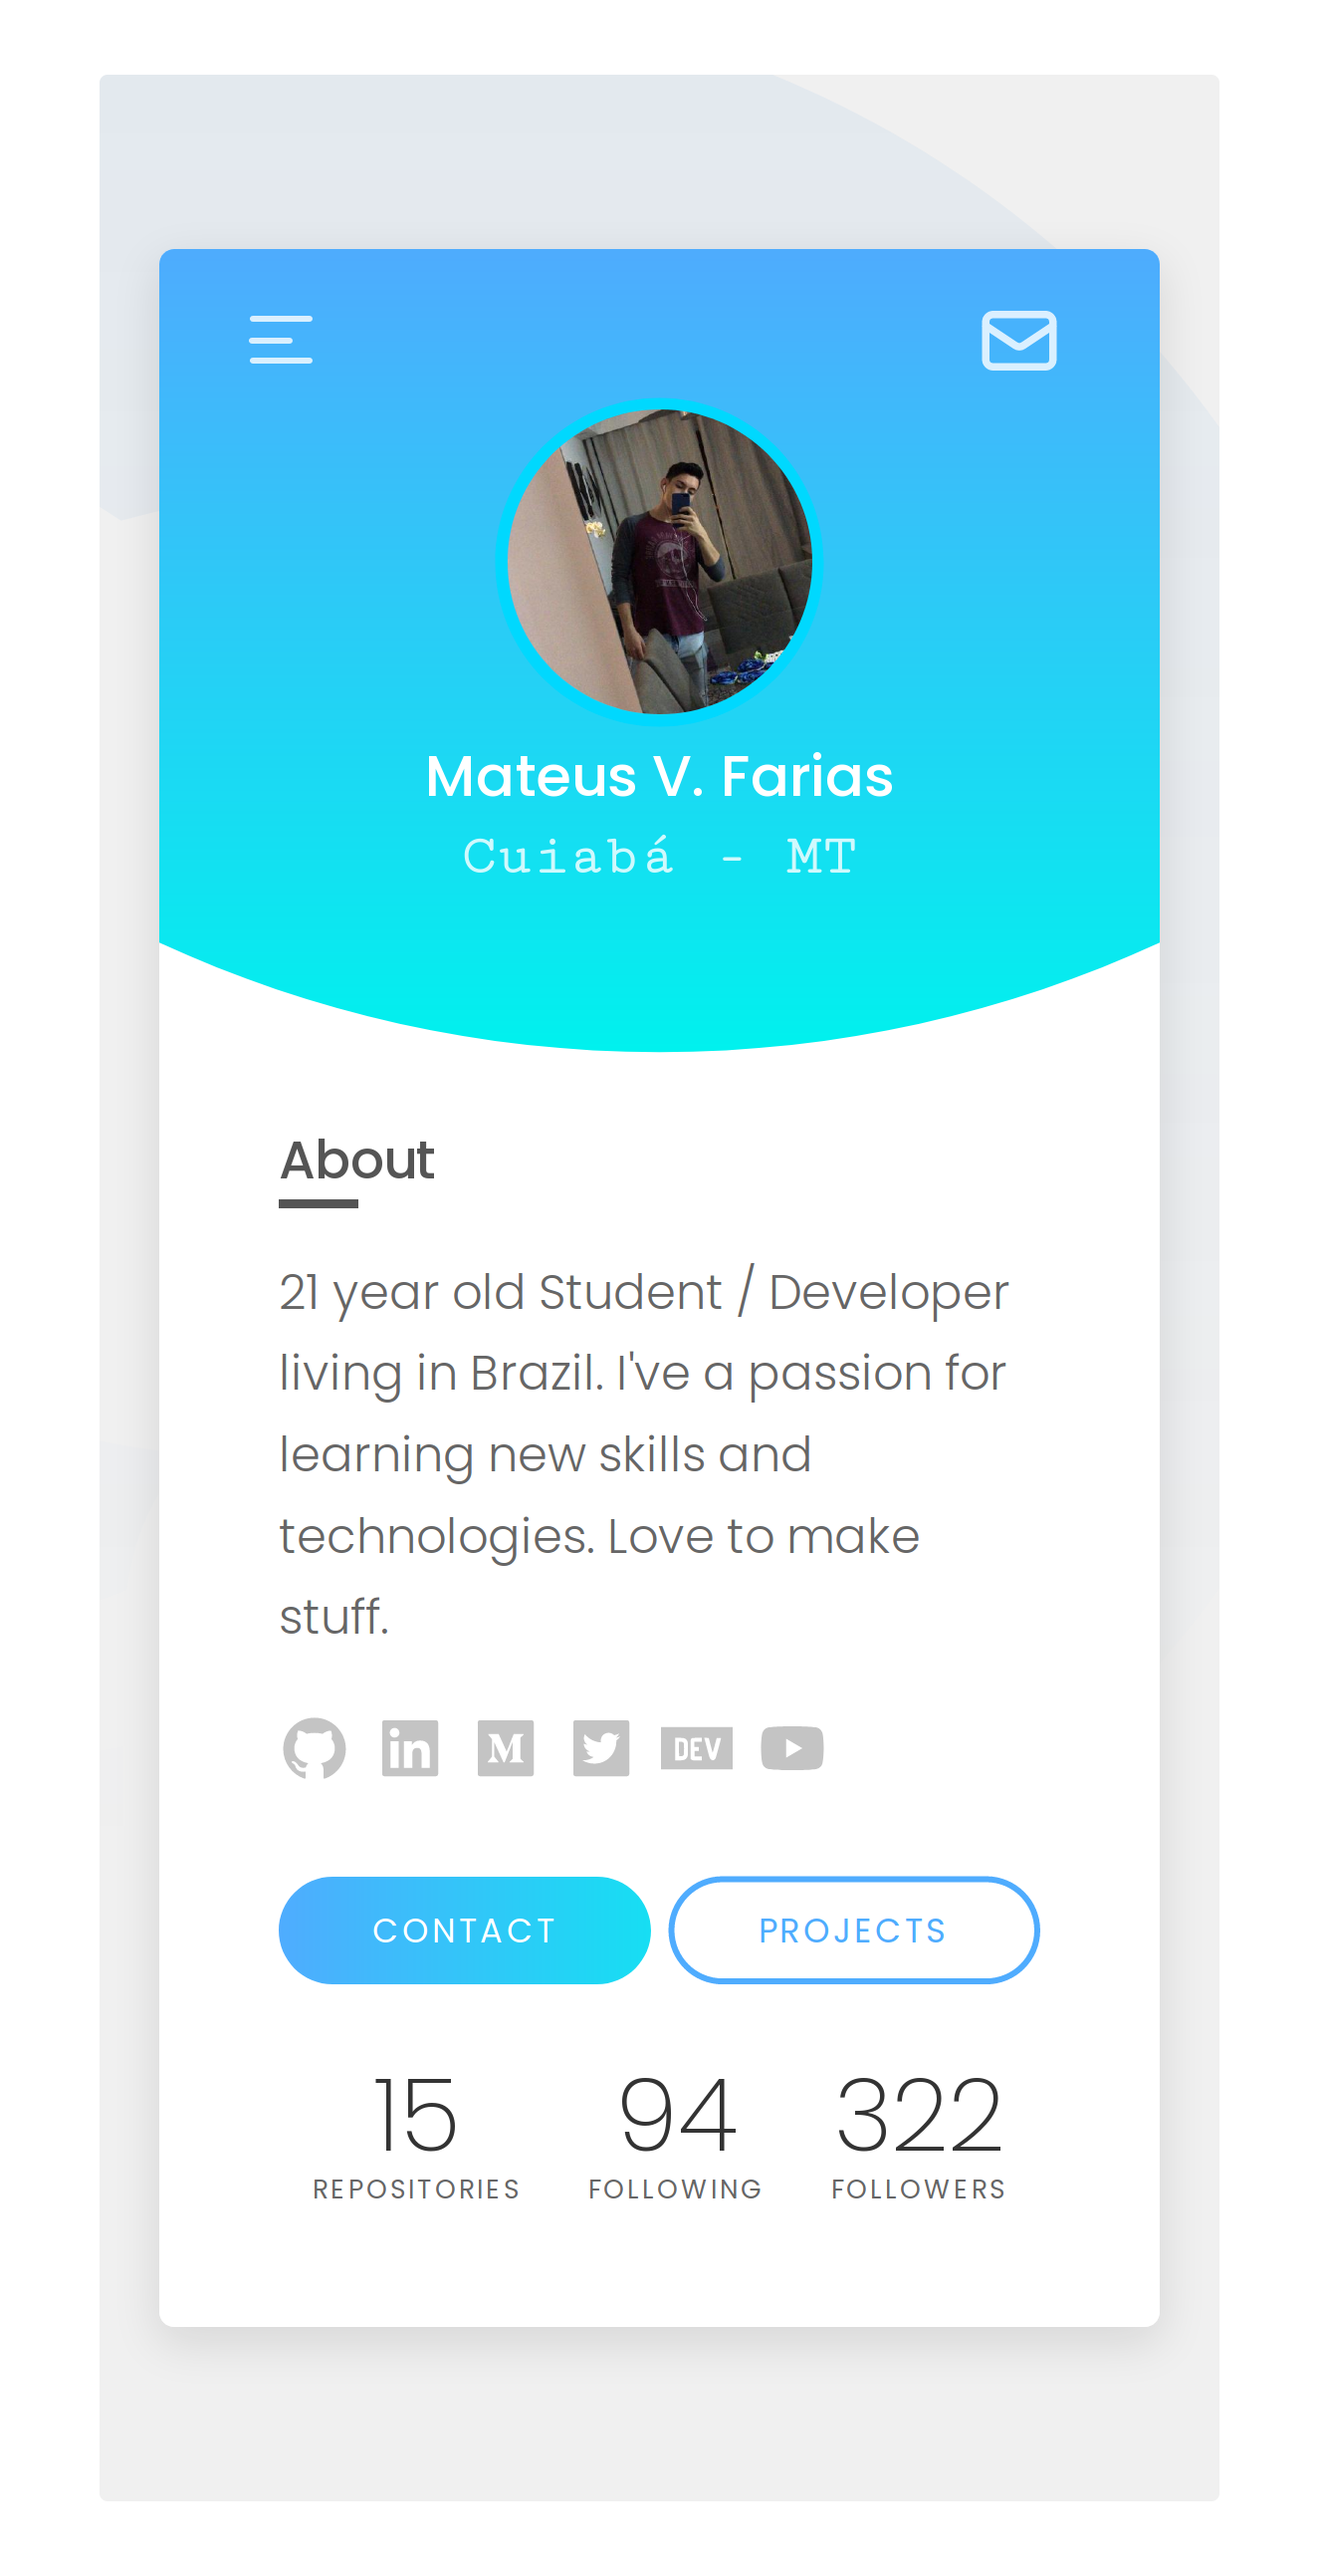
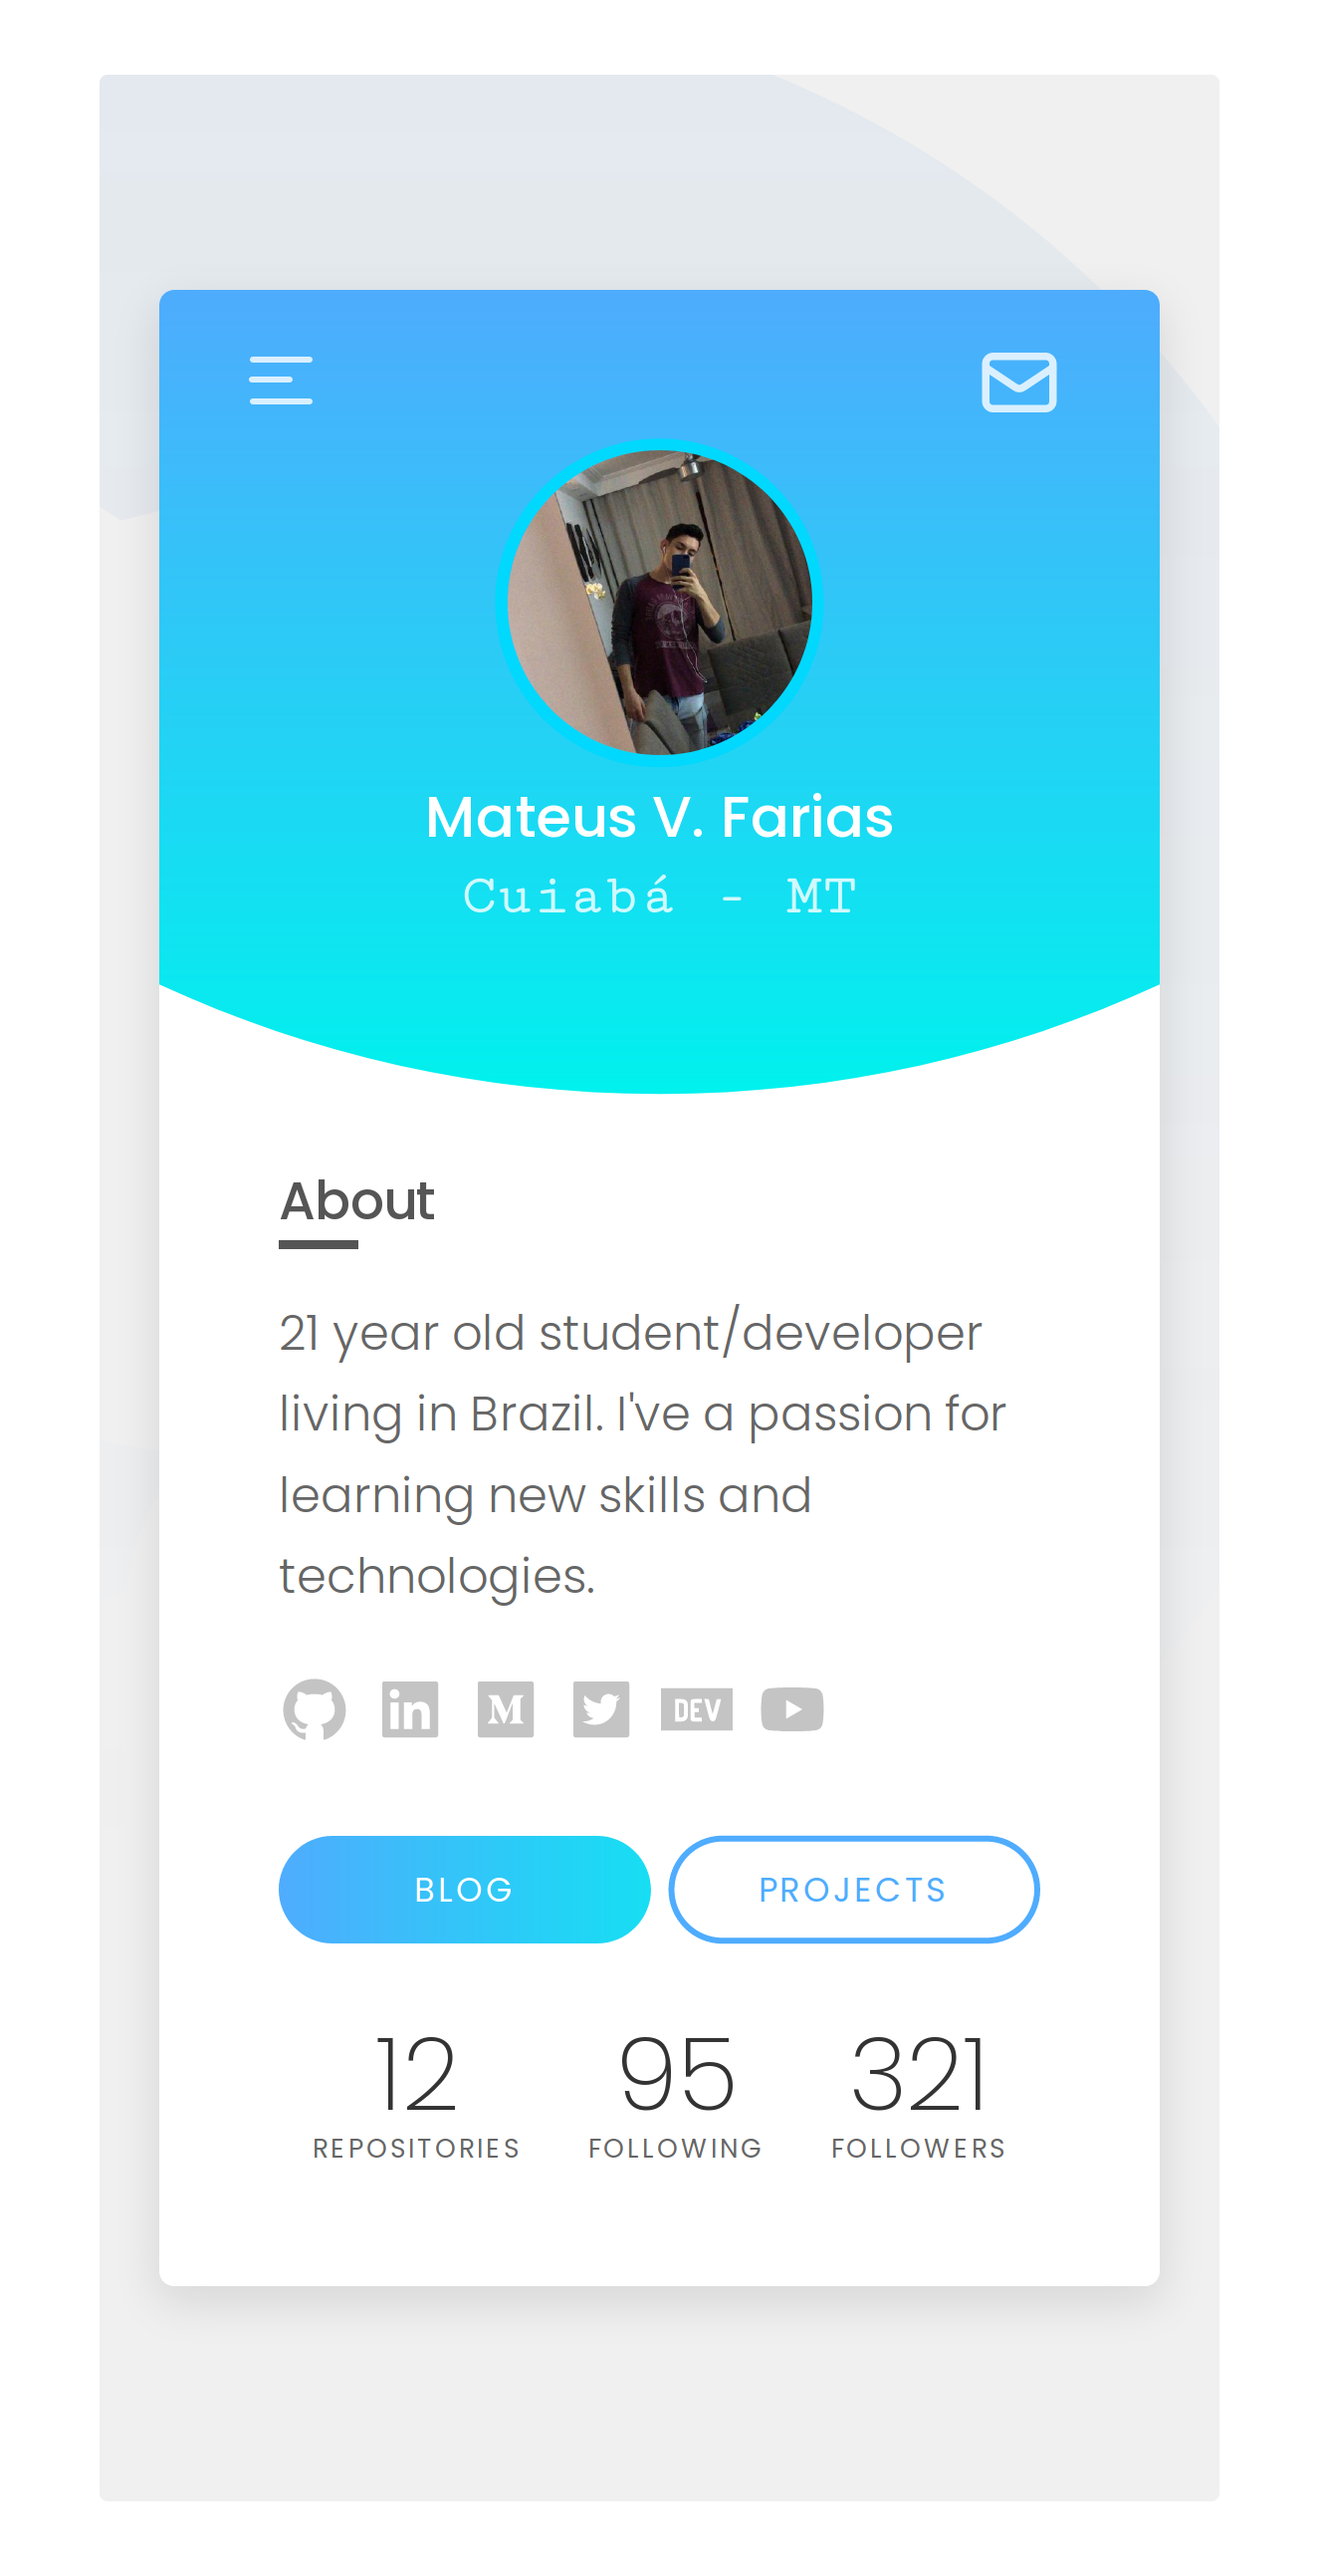
Add thumbnail articles

Changed region(s): [[0.1238, 0.3712, 0.8974, 0.8971], [0.3094, 0.1547, 0.6808, 0.3712], [0.1238, 0.0928, 0.8974, 0.1856]]

diff --git a/README.md b/README.md
@@ -1,20 +1,22 @@
-<p align="center">
-  <img src="docs/resources/card.png" width="49%" />
-  <img src="docs/resources/repositories.png" width="49%" />
+<p float="center">
+  <img src="docs/resources/card.png" width="32%" />
+  <img src="docs/resources/repositories.png" width="32%" />
+  <img src="docs/resources/articles.png" width="32%" />
 </p>
 
 ## Table of Contents
 
-* [Tech](#Tech)
-* [Usage](#Usage)
-* [API](#API)
-  * [Get a user](#Get-a-user)
-  * [List repositories for a user](#List-repositories-for-a-user)
-* [Development setup](#Development-setup)
-  * [Cloning this repository](#Cloning-this-repository)
-  * [Installation](#Installation)
-* [Feedback](#Feedback)
-* [License](#License)
+- [Tech](#Tech)
+- [Usage](#Usage)
+- [API](#API)
+  - [Get a user](#Get-a-user)
+  - [List repositories for a user](#List-repositories-for-a-user)
+  - [List articles for a user](#List-articles-for-a-user)
+- [Development setup](#Development-setup)
+  - [Cloning this repository](#Cloning-this-repository)
+  - [Installation](#Installation)
+- [Feedback](#Feedback)
+- [License](#License)
 
 ## Tech
 
@@ -27,7 +29,7 @@ This project was bootstrapped with [Create React App](https://create-react-app.d
 
 ## API
 
-In this project, there are requests for the following [GitHub](https://docs.github.com/en/rest) REST endpoints.
+In this project, there are requests for the following [GitHub](https://docs.github.com/en/rest) and [DEV Community](https://docs.dev.to/api/) REST endpoints.
 
 #### `Get a user`
 
@@ -45,6 +47,14 @@ Lists public repositories for the specified user.
 curl https://api.github.com/users/{username}/repos
 ```
 
+#### `List articles for a user`
+
+Lists articles for the specified user.
+
+```
+curl https://dev.to/api/articles?username={username}
+```
+
 ## Development setup
 
 To run this project in the development mode, you'll need to have a basic environment with NodeJs and Yarn installed.
@@ -52,7 +62,7 @@ To run this project in the development mode, you'll need to have a basic environ
 #### Cloning this repository
 
 ```
-git clone https://github.com/fariasmateuss/github-user-profile.git
+git clone https://github.com/fariasmateuss/community-user-profile.git
 
 ```
 
